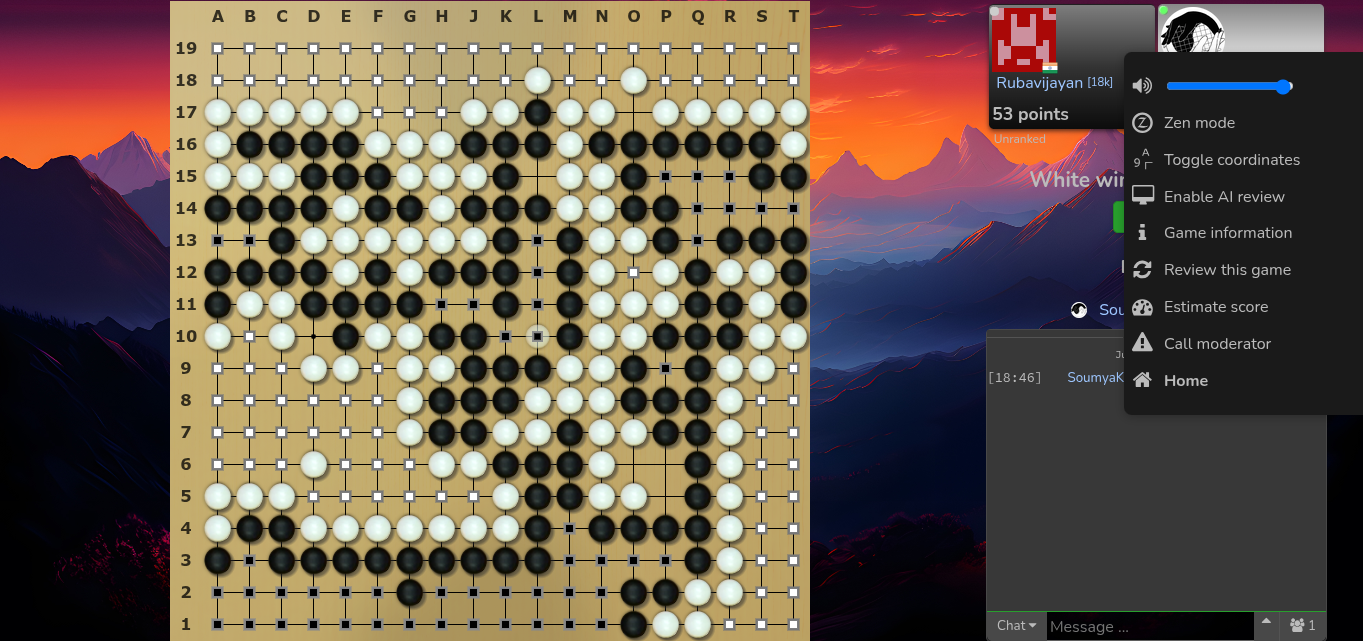
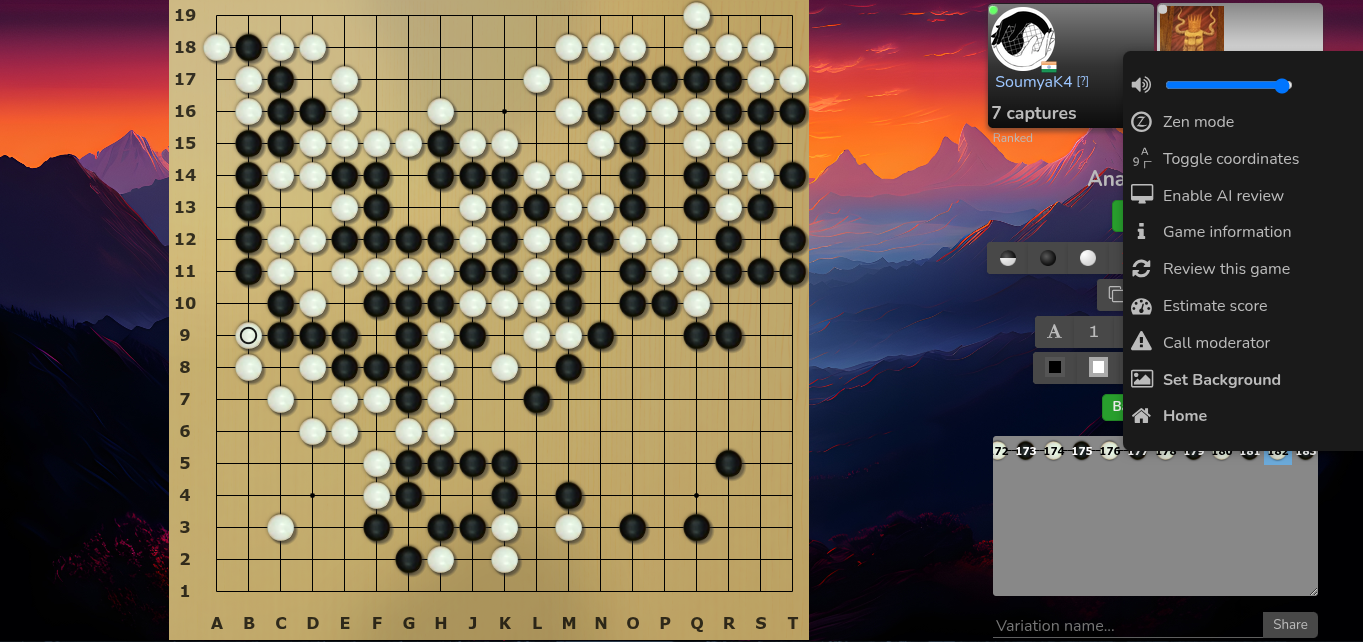
update to 2.2

diff --git a/README.md b/README.md
@@ -1,10 +1,17 @@
 # OGS-Tampermonkey
 Custom game, review, demo layouts
-1. Custom Background
+1. Custom Background: Button in Right Dock
+ - Using Link
+ - From Local Image
+ - Reset to Default Image
 2. Scroll mouse to change moves
 3. Removed bottom nav and top nav to make board take as much space as possible
 4. Custom Right Dock with a button to go back to home screen as I removed the top nav bar
 
 ## Screenshot
 
+Default Look
 ![](/demo.png)
+
+Background Options
+![](/bgMenu.png)
